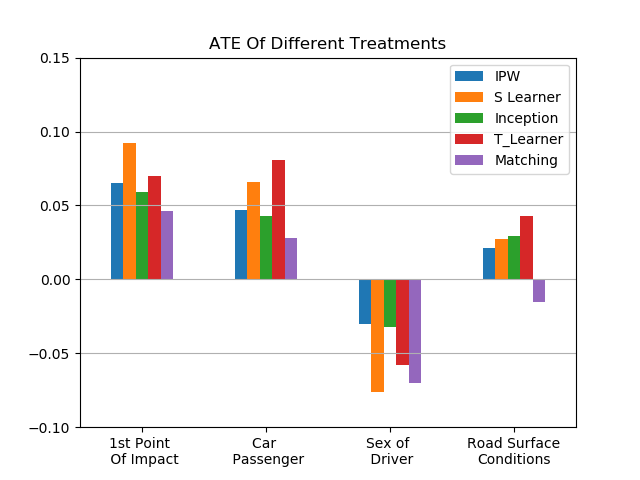
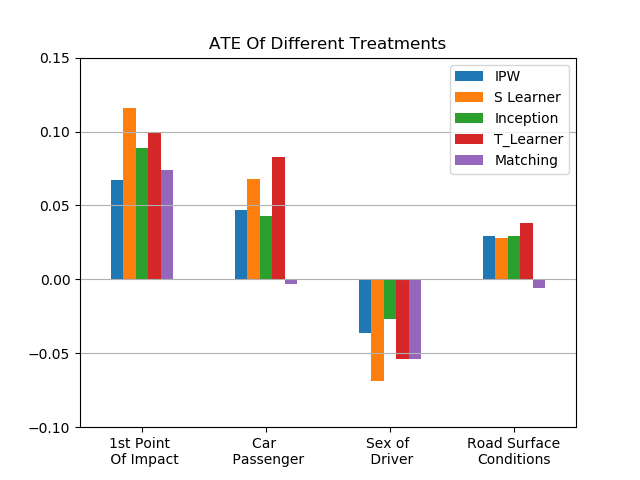
changing ATE and ATT

diff --git a/analyze_results.py b/analyze_results.py
@@ -15,7 +15,7 @@ def get_data_from_txt(txt_path):
                 continue
             treat, res = line.split(":")
             treat = treat.strip()
-            ate, att, _ = res.split("]")
+            att, ate, _ = res.split("]")
             ate = ate.strip() + "]"
             att = att.strip() + "]"
             ate = ast.literal_eval(ate)
